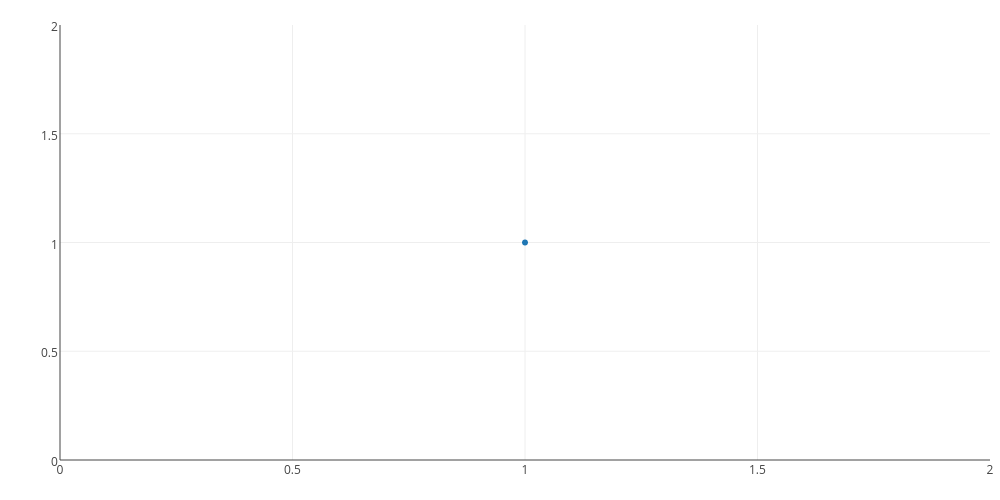
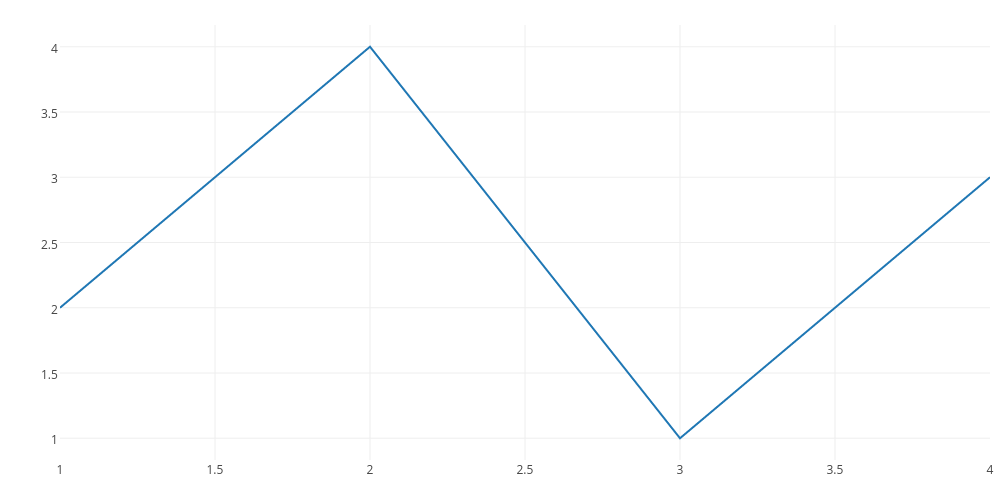
add titles, image, version, info

diff --git a/_posts/r/fundamentals/2015-04-09-static-image_r_index.md b/_posts/r/fundamentals/2015-04-09-static-image_r_index.md
@@ -2,18 +2,44 @@
 name: Static Image Export
 permalink: r/static-image-export/
 description: How to export plotly graphs as static images in R. Plotly supports png, svg, jpg, and pdf image export.
-layout: base
+layout: getstart-base
 thumbnail: thumbnail/png-export.png
 language: r
 page_type: example_index
 has_thumbnail: true
-order: 2
+order: 3
 display_as: file_settings
 sitemap: false
 output:
   html_document:
     keep_md: true
 ---
+
+
+
+### New to Plotly?
+
+Plotly's R library is free and open source!<br>
+[Get started](https://plot.ly/r/getting-started/) by downloading the client and [reading the primer](https://plot.ly/r/getting-started/).<br>
+You can set up Plotly to work in [online](https://plot.ly/r/getting-started/#hosting-graphs-in-your-online-plotly-account) or [offline](https://plot.ly/r/offline/) mode.<br>
+We also have a quick-reference [cheatsheet](https://images.plot.ly/plotly-documentation/images/r_cheat_sheet.pdf) (new!) to help you get started!
+
+### Version Check
+
+Version 4 of Plotly's R package is now [available](https://plot.ly/r/getting-started/#installation)!<br>
+Check out [this post](http://moderndata.plot.ly/upgrading-to-plotly-4-0-and-above/) for more information on breaking changes and new features available in this version.
+
+
+```r
+library(plotly)
+packageVersion('plotly')
+```
+
+```
+## [1] '4.5.6.9000'
+```
+
+### Export Locally
 
 Recent versions of the R package include an `export()` function, which does image export locally, but requires the webshot package:
 
@@ -25,7 +51,12 @@ export(plot_ly(), file = tmpFile)
 browseURL(tmpFile)
 ```
 
-Another option is to do image export through your plotly account. First, if you haven't already, let the R package know about your credentials
+### Export Using Your Plotly Account
+
+Another option is to do image export through your plotly account. This will export the image on plotly's servers and write the content to a local file `"output.png"` in your working directory. 
+
+First, you will require the development version of plotly, this can be installed using `devtool::install_github("ropensci/plotly")`. In addition, if you haven't already, let the R package know about your credentials.
+
 
 
 ```r
@@ -36,45 +67,13 @@ Sys.setenv("plotly_api_key" = "YOUR API KEY")
 
 ```r
 library(plotly)
-```
-
-```
-## Loading required package: ggplot2
-```
-
-```
-## Warning: package 'ggplot2' was built under R version 3.3.2
-```
-
-```
-##
-## Attaching package: 'plotly'
-```
-
-```
-## The following object is masked from 'package:ggplot2':
-##
-##     last_plot
-```
-
-```
-## The following object is masked from 'package:stats':
-##
-##     filter
-```
-
-```
-## The following object is masked from 'package:graphics':
-##
-##     layout
-```
-
-```r
-p <- plot_ly(x = 1, y = 1, type = 'scatter', mode = 'markers')
+p <- plot_ly(x = c(1,2,3,4), y = c(2,4,1,3), type = 'scatter', mode = 'lines')
 plotly_IMAGE(p, format = "png", out_file = "output.png")
 ```
 
-This will export the image on plotly's servers and write the content to a local file `"output.png"` in your working directory.
+![](/output.png)
+
+### Appending File Type to URL
 
 You can also view the static version of any Plotly graph by appending `.png`,
 `.pdf`, `.eps`, or `.svg` to the end of the URL. For example, view the static image of <https://plot.ly/~chris/1638> at <https://plot.ly/~chris/1638.png>. See [Using Plotly with rmarkdown/knitr](https://plot.ly/r/knitr/) for a way to embed these links in rmarkdown/knitr (Rmd) files.
